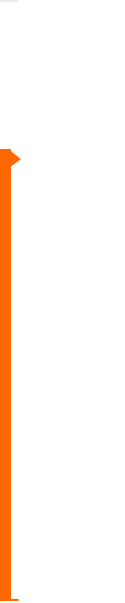
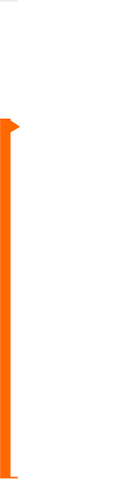
Cambios

Changed region(s): [[0.0, 0.25, 0.025, 1.0]]

diff --git a/css/estilos.css b/css/estilos.css
@@ -524,3 +524,47 @@ input.error{
 	padding-left: 0;
 	padding-right: 0;
 }
+.kilos-content {
+	position:absolute;
+	width:120px;
+	left:30px;
+	height:480px;
+	top:50%;
+	border:0;
+	margin-top:-240px;
+	font-family: 'DINNextLTPro-Medium';
+	font-style: italic;
+	color: #ff6702;
+	font-size:35px;
+	line-height: 15px;
+}
+.kilos-content.dos div{
+	position:absolute;
+	bottom: 0;
+	height:60px;
+	border:1px solid red;
+	left:10px;
+	padding:20px 0 0 0;
+}
+.kilos-content .kilos-small{
+	font-size:16px;
+}
+.kilos-content .kilos-texto{
+	font-size:20px;
+	font-family: 'DINNextLTPro-Light';
+}
+.kilos-content.uno{
+	background:url('../img/kilos-1.png') no-repeat left;
+}
+.kilos-content.dos{
+	background:url('../img/kilos-2.png') no-repeat left;
+}
+.kilos-content.tres{
+	background:url('../img/kilos-3.png') no-repeat left;
+}
+.kilos-content.cuatro{
+	background:url('../img/kilos-4.png') no-repeat left;
+}
+.kilos-content.cinco{
+	background:url('../img/kilos-5.png') no-repeat left;
+}

diff --git a/app/views/index.blade.php b/app/views/index.blade.php
@@ -149,7 +149,14 @@
 				</div>
 			</div>
 			<div class="pt-page page-elReto content-wrapper">
+				<div class="kilos-content uno hidden" >
+						
+				</div>
+				<div class="kilos-content dos" >
+					<div>180 <span class="kilos-small">kg</span><br/> <span class="kilos-texto">de ayuda</span></div>
+				</div>
 				<div class="container-fluid contenido">
+					
 					<div class="row">
 						<div class="col-sm-8 col-sm-offset-2">
 							<div class="row no-padding">
